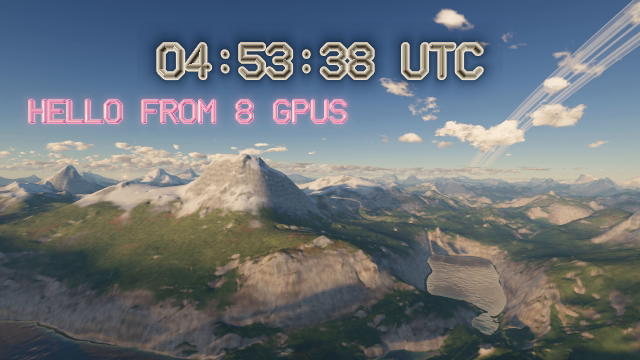
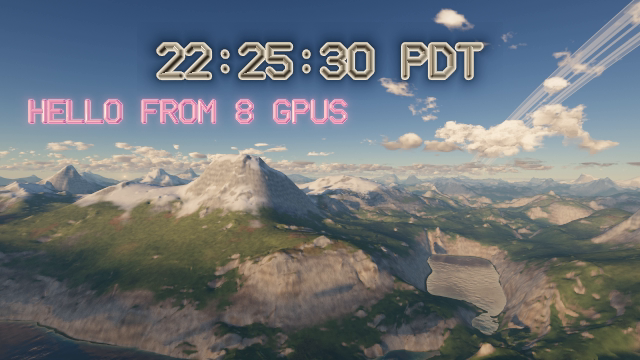
fleet/renderer: round 7 shots and measurements
From an image built at 8039f9ff on a g4dn.metal from the fleet host AMI:
720p whole and the 1080 detail view at 30.0 fps in three runs each; seam
test 17/17 on three GPUs with identical hashes; a moving frame stitched
unencoded from eight VMs equals the whole frame in all 2,073,600 pixels,
with every pixel drawing and with stride-4 frames. Shots: golden hour (the
clock now reads PDT), 80 km, moving, fast move, wall, /still, raw and
decoded. README: the fps table, seams and the clock.

diff --git a/fleet/renderer/README.md b/fleet/renderer/README.md
@@ -61,7 +61,8 @@ scene is at golden hour (sun about 7 degrees up):
   the cloud layer, letting 14% through as diffuse light), and one bounce of
   sky or ground light; viewers' lights add point lighting.
 - **Words and the clock**: tubes along a stroke font, ray marched as 3D
-  distance fields and laid out on the screen (the clock centred near the top,
+  distance fields and laid out on the screen (the clock, in Pacific time
+  with PDT or PST, centred near the top,
   words in a grid below it, inside a safe area). Words are glowing glass; the
   clock is solid dark metal with a bright rim and a dark halo, readable over
   cloud and sky. Viewers' lights are glowing spheres. All drawn exactly (no
@@ -143,8 +144,8 @@ python3 tools/seam_metric.py out.png 4 2              # seam ratio at every tile
 
 ## Measured (2026-10-23, g4dn.metal from the fleet host AMI, one T4 per fcvm VM)
 
-The fps table, seams, shots and TLS numbers are from round 6; the
-stream-quality and subscriber numbers are from round 4.
+The fps table, seams and shots are from round 7; the TLS numbers from round
+6; the stream-quality and subscriber numbers from round 4.
 
 Moving camera, `tools/measure.py`, 8 s per row after 2 s to settle, default
 budget (250,000 pixel-samples per frame over the drawn region), `q=std`; wall
@@ -154,25 +155,24 @@ the checkerboard stride (1: every pixel draws).
 
 | inner size | stream (with overlap) | fps | samples/pixel/frame | checker | render ms | encode ms |
 |---|---|---|---|---|---|---|
-| 146 x 146 (asked 136) | 178 x 178 | 30.2 | 5 | 1 | 12.8 | 0.59 |
-| 180 x 180 | 212 x 212 | 30.0 | 3 | 1 | 11.0 | 0.73 |
-| 240 x 240 | 272 x 272 | 30.0 | 2 | 1 | 10.8 | 0.79 |
-| 360 x 360 | 392 x 392 | 30.0 | 1 | 1 | 9.5 | 1.16 |
-| 1080 x 1080 detail view | 1112 x 1112 | 27.9 | 1 | 4 | 27.8 | 4.15 |
-| 1280 x 720 whole image | 1280 x 720 | 25.4 | 1 | 4 | 30.1 | 2.58 |
-| 1920 x 1080 whole image | 1920 x 1080 | 12.2 | 1 | 4 | 62.4 | 4.45 |
+| 146 x 146 (asked 136) | 178 x 178 | 32.5 | 5 | 1 | 11.5 | 0.82 |
+| 180 x 180 | 212 x 212 | 30.2 | 3 | 1 | 9.6 | 0.71 |
+| 240 x 240 | 272 x 272 | 30.0 | 2 | 1 | 8.8 | 0.75 |
+| 360 x 360 | 392 x 392 | 30.0 | 1 | 1 | 7.9 | 1.12 |
+| 1080 x 1080 detail view | 1112 x 1112 | 30.0 | 1 | 4 | 23.7 | 3.89 |
+| 1280 x 720 whole image | 1280 x 720 | 30.0 | 1 | 4 | 27.6 | 2.54 |
+| 1920 x 1080 whole image | 1920 x 1080 | 15.0 | 1 | 4 | 57.9 | 3.99 |
 
-The 720p whole image and the detail view sit at the slot's edge: render plus
-encode is 31 to 33 ms of the 33.3 ms slot, and a frame over it costs a slot.
-A second run in one VM gave 720p at 23.1 fps (29.6 ms) and the detail view
-at 30.0 (26.1 ms). Round 5 measured 29.5 and 26.9 ms on another box. A lower
-`budget` does not help these two: they already draw a quarter of the pixels
-with one sample, the floor. Per frame, the trace is nearly all of it (720p,
-moving, per-kernel events: trace 31 ms; sky 0.1, fill 0.2, resolve 0.2,
-finish 0.4); within the trace the cloud march took 5.3 ms, the bounce ray
-2.7 and the sun's shadow march 2.6 before both marches were shortened (20
-bounce steps, round 4's shadow octaves), which took that frame's trace from
-30.9 to 29.5 ms; the table above is after that change.
+Two
+more runs in one VM: 720p whole 30.0 and 30.0 fps (27.3 and 27.5 ms), the
+detail view 30.0 and 30.0 (22.4 and 22.5 ms). In round 6 those two views sat
+at the slot's edge (25.4 and 27.9 fps): round 7 ends the cloud march at a
+transmittance of 0.1 (the rest of the cloud added from that step's light),
+takes the light march every fourth fine step, steps 2% of the distance
+inside clouds, and shortens the sun shadow march (32 steps), the bounce ray
+(14 steps over 6 km) and the aerial perspective over a hit (8 steps). On the
+measure scene's 720p frame the trace went from 29.6 to 27.2 ms, and on the
+1080 detail tile from 95.2 to 82.8 ms (`still --seq 12`, per-kernel events).
 
 Stream quality at 180 px tiles (4 x 2 grid, 160 x 180 inner, 192 x 212
 delivered; one moving frame unencoded and as the eight streams decode it,
@@ -196,16 +196,15 @@ the GPU; 307 to 330 ms with `nvidia-persistenced` running in the guest.
 Relaunch (round 2, cache-hit `fcvm podman run`): 6.15 to 6.28 s from the
 command to the first frame at the client.
 
-Seams (round 6): the seam test passes in VMs on three different T4s with the
-same hashes (`fnv64 d29502859cc7552a`, `a6dabe4b727ac567`, `19c1b42fb6c2c616`).
+Seams (round 7): the seam test passes in VMs on three different T4s with the
+same hashes (`fnv64 7bcd6010e2391cb4`, `99df125930c40c0f`, `81b124346d058065`).
 A moving frame captured unencoded from eight VMs (`tools/rawmosaic.py`)
 equals the same frame drawn whole in another VM in all 2,073,600 pixels, with
 every pixel drawing and with stride-4 checkerboard frames. At 540 px tiles its
-seam ratio is 0.75 to 1.26 unencoded and 0.81 to 1.35 as the eight `std`
-streams decode it, cropped (largest increase from encoding 0.33, at a boundary
-in flat forest). In the holds the centred clock puts a digit's edge on the
-middle boundary, which reads 6.3 (golden hour) and 7.6 (80 km) there and 0.61
-to 1.41 everywhere else; a 4x crop shows the digit, no line.
+seam ratio is 0.75 to 1.32 unencoded and 0.81 to 1.40 as the eight `std`
+streams decode it, cropped (largest increase from encoding 0.28). Holds,
+decoded: golden hour 0.87 to 1.39, 80 km 0.65 to 1.55. In the fast-move shot
+the clock puts a digit's edge on the middle top boundary (6.8 there).
 
 TLS (round 6, one renderer VM, `tools/tlscost.py`, 15 s per arm, camera
 moving, the same streams over `ws://` and then `wss://`; the renderer's CPU
@@ -223,7 +222,7 @@ replacement (450 frames, 352 after the swap, largest gap 42 ms) and new
 handshakes got the new certificate; a TLS 1.1 client is refused.
 
 `GET /still?h=540` from the eight VMs, 12 s after the first request with no
-stream running, in the 80 km hold: 359 to 382 samples per pixel, stitched in
+stream running, in the 80 km hold: 363 to 382 samples per pixel, stitched in
 `shots/still-high-8gpu.jpg`.
 
 Shots stitched from eight VMs on eight GPUs are in `shots/`:
